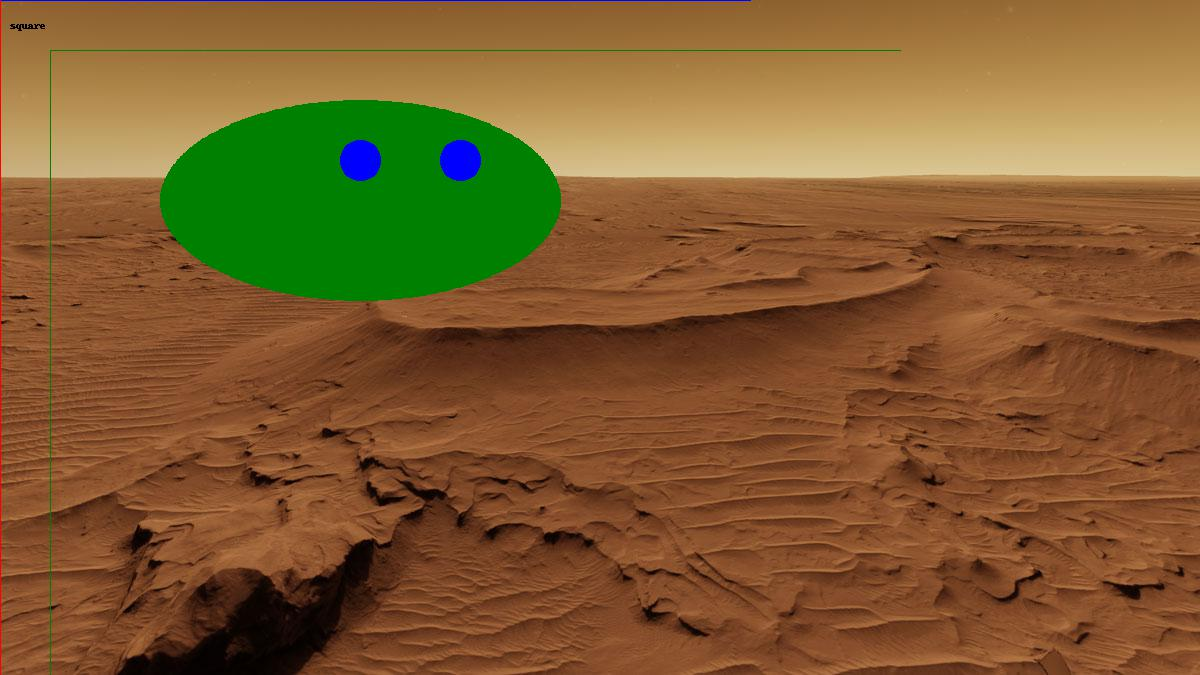
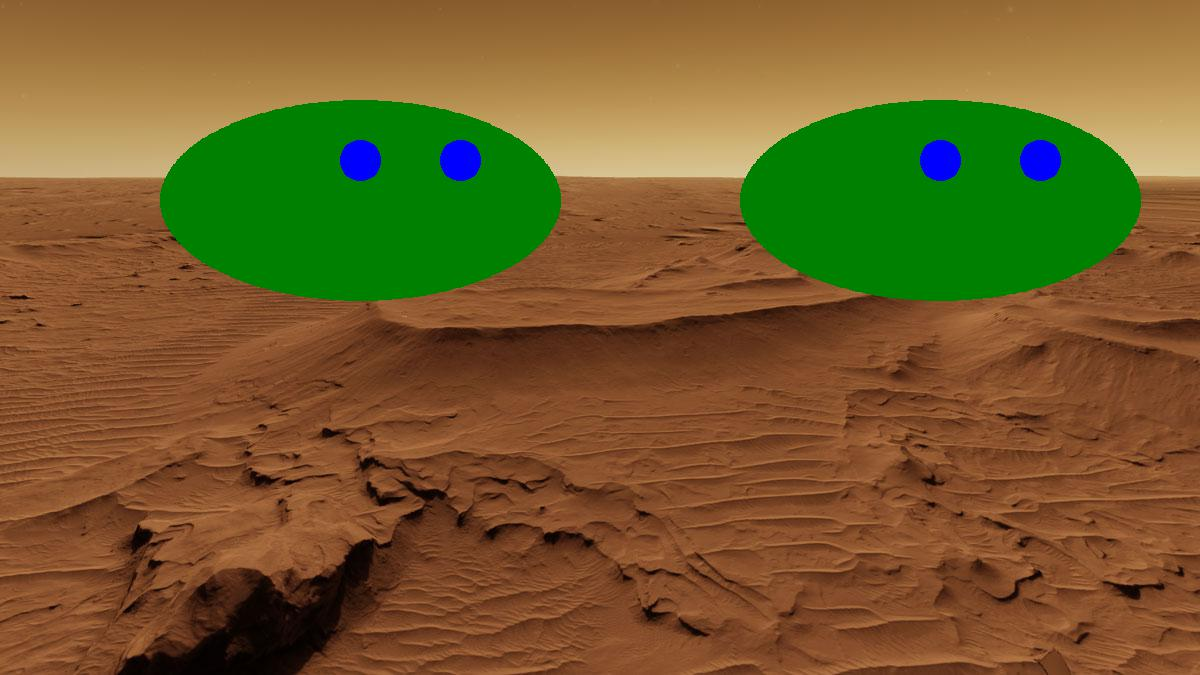
dded a second alien

diff --git a/animationprogram.py b/animationprogram.py
@@ -40,26 +40,45 @@ ye1=140
 xe2=320
 ye2=140
 
+#shift moves the cirles 
 shift=10
 shifteye=10
 
 
+x1b=100+700
+y1b=100
+xe1b=220+700
+ye1b=140
+xe2b=320+700
+ye2b=140
+
+shiftb=-10
+shifteyeb=10
+
+
+
+
+
+
+#start of loop to draw alien at each time step
 for i in range(1,10):
     
+    #this adds a backround to the animation
     image1 = Image.open("images/mars-landscape-1-1200.jpg")
     image1.resize([iwidth,iheight], Image.LANCZOS)
     
+    #this adds draw
     #image1 = Image.new("RGB", (iwidth, iheight), 'white')
     draw = ImageDraw.Draw(image1)
     draw.line([0,0,(i-1)*150,0],'blue')
     draw.line([0,0,0,(i-1)*165],'red')
-    
+  
     draw.line([50,50,900,50],'green')
     draw.line([50,50,50,1000],'green')
 #for i in range(1,4):
-    draw.text((10, 20), str1, 'black')
-    step=0
-    draw.line([900,950,1100,1050],'red')
+#    draw.text((10, 20), str1, 'black')
+#    step=0
+#    draw.line([900,950,1100,1050],'red')
     #draw.ellipse([900+i*step, 950+i*step, 1100+i*step, 1050+i*step],'red')
     #draw.ellipse([950+i*step, 1000+i*step, 1150+i*step, 1100+i*step],'blue')
     #draw.ellipse([1000+i*step, 1050+i*step, 1200+i*step, 1150+i*step],'blue')
@@ -68,14 +87,23 @@ for i in range(1,10):
 
     if i%10==0:
         shifteye=shifteye*-1
-    
-    
+        shifteyeb=shifteyeb*-1    
+    #this draws the aliens
     x1=x1+shift
     xe1=xe1+shifteye+shift
     xe2=xe2+shifteye+shift
     draw.ellipse([x1, y1, x1+400, y1+200],'green')
     draw.ellipse([xe1, ye1, xe1+40, ye1+40],'blue')
     draw.ellipse([xe2, ye2, xe2+40, ye2+40],'blue')
+    
+       
+
+    x1b=x1b+shiftb
+    xe1b=xe1b+shifteyeb+shiftb
+    xe2b=xe2b+shifteyeb+shiftb
+    draw.ellipse([x1b, y1b, x1b+400, y1b+200],'green')
+    draw.ellipse([xe1b, ye1b, xe1b+40, ye1b+40],'blue')
+    draw.ellipse([xe2b, ye2b, xe2b+40, ye2b+40],'blue')
     
     
     
@@ -85,6 +113,8 @@ for i in range(1,10):
     filename = "movie-images/aliens"+str(i)+".jpg"
     image1.save(filename)  
     del draw
+    
+    #end of loop to drawe alien
 
 #ffmpeg documentation https://ffmpeg.org/ffmpeg.html#Examples-1
 #ffmpeg command    

diff --git a/AlienDesign.py b/AlienDesign.py
@@ -1,7 +1,12 @@
 # -*- coding: utf-8 -*-
 """
-Created on Thu Nov 28 19:30:38 2019
 
-@author: suilven
+
 """
+from tkinter import *
 
+window=Tk()
+window.title('Alien')
+
+c = Canvas(window, height=1800, width=2800)
+c.pack()
